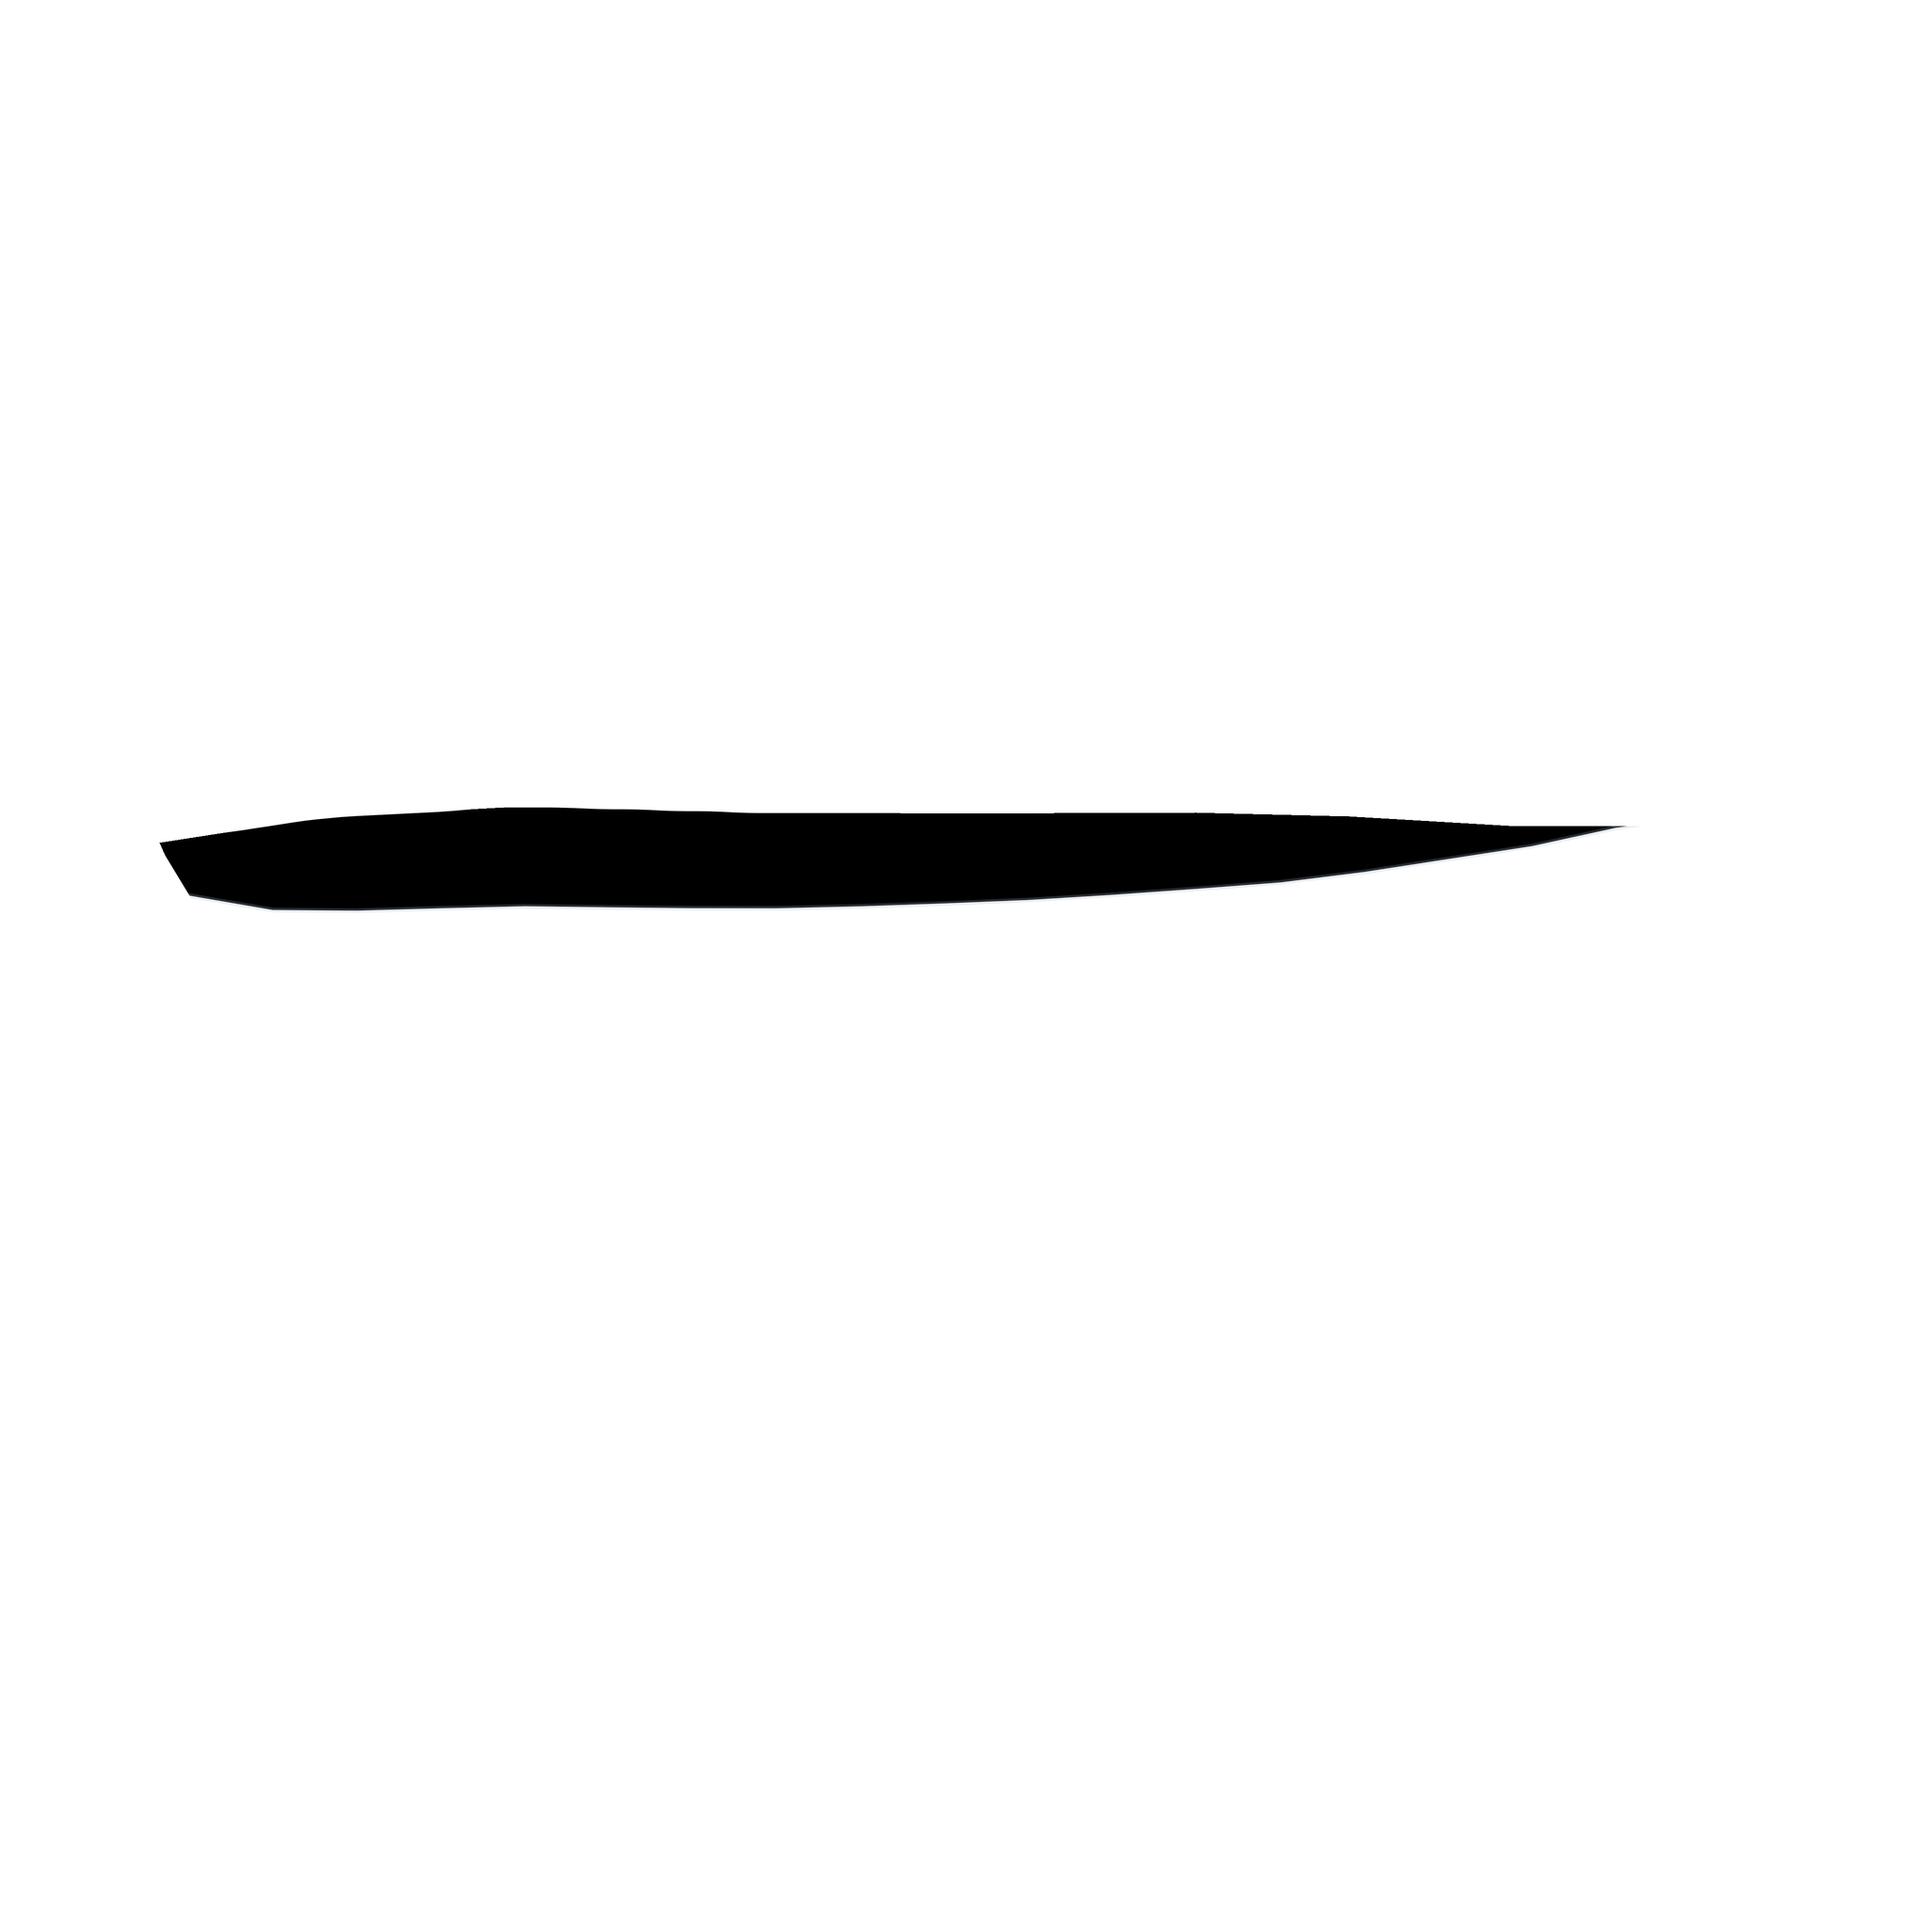
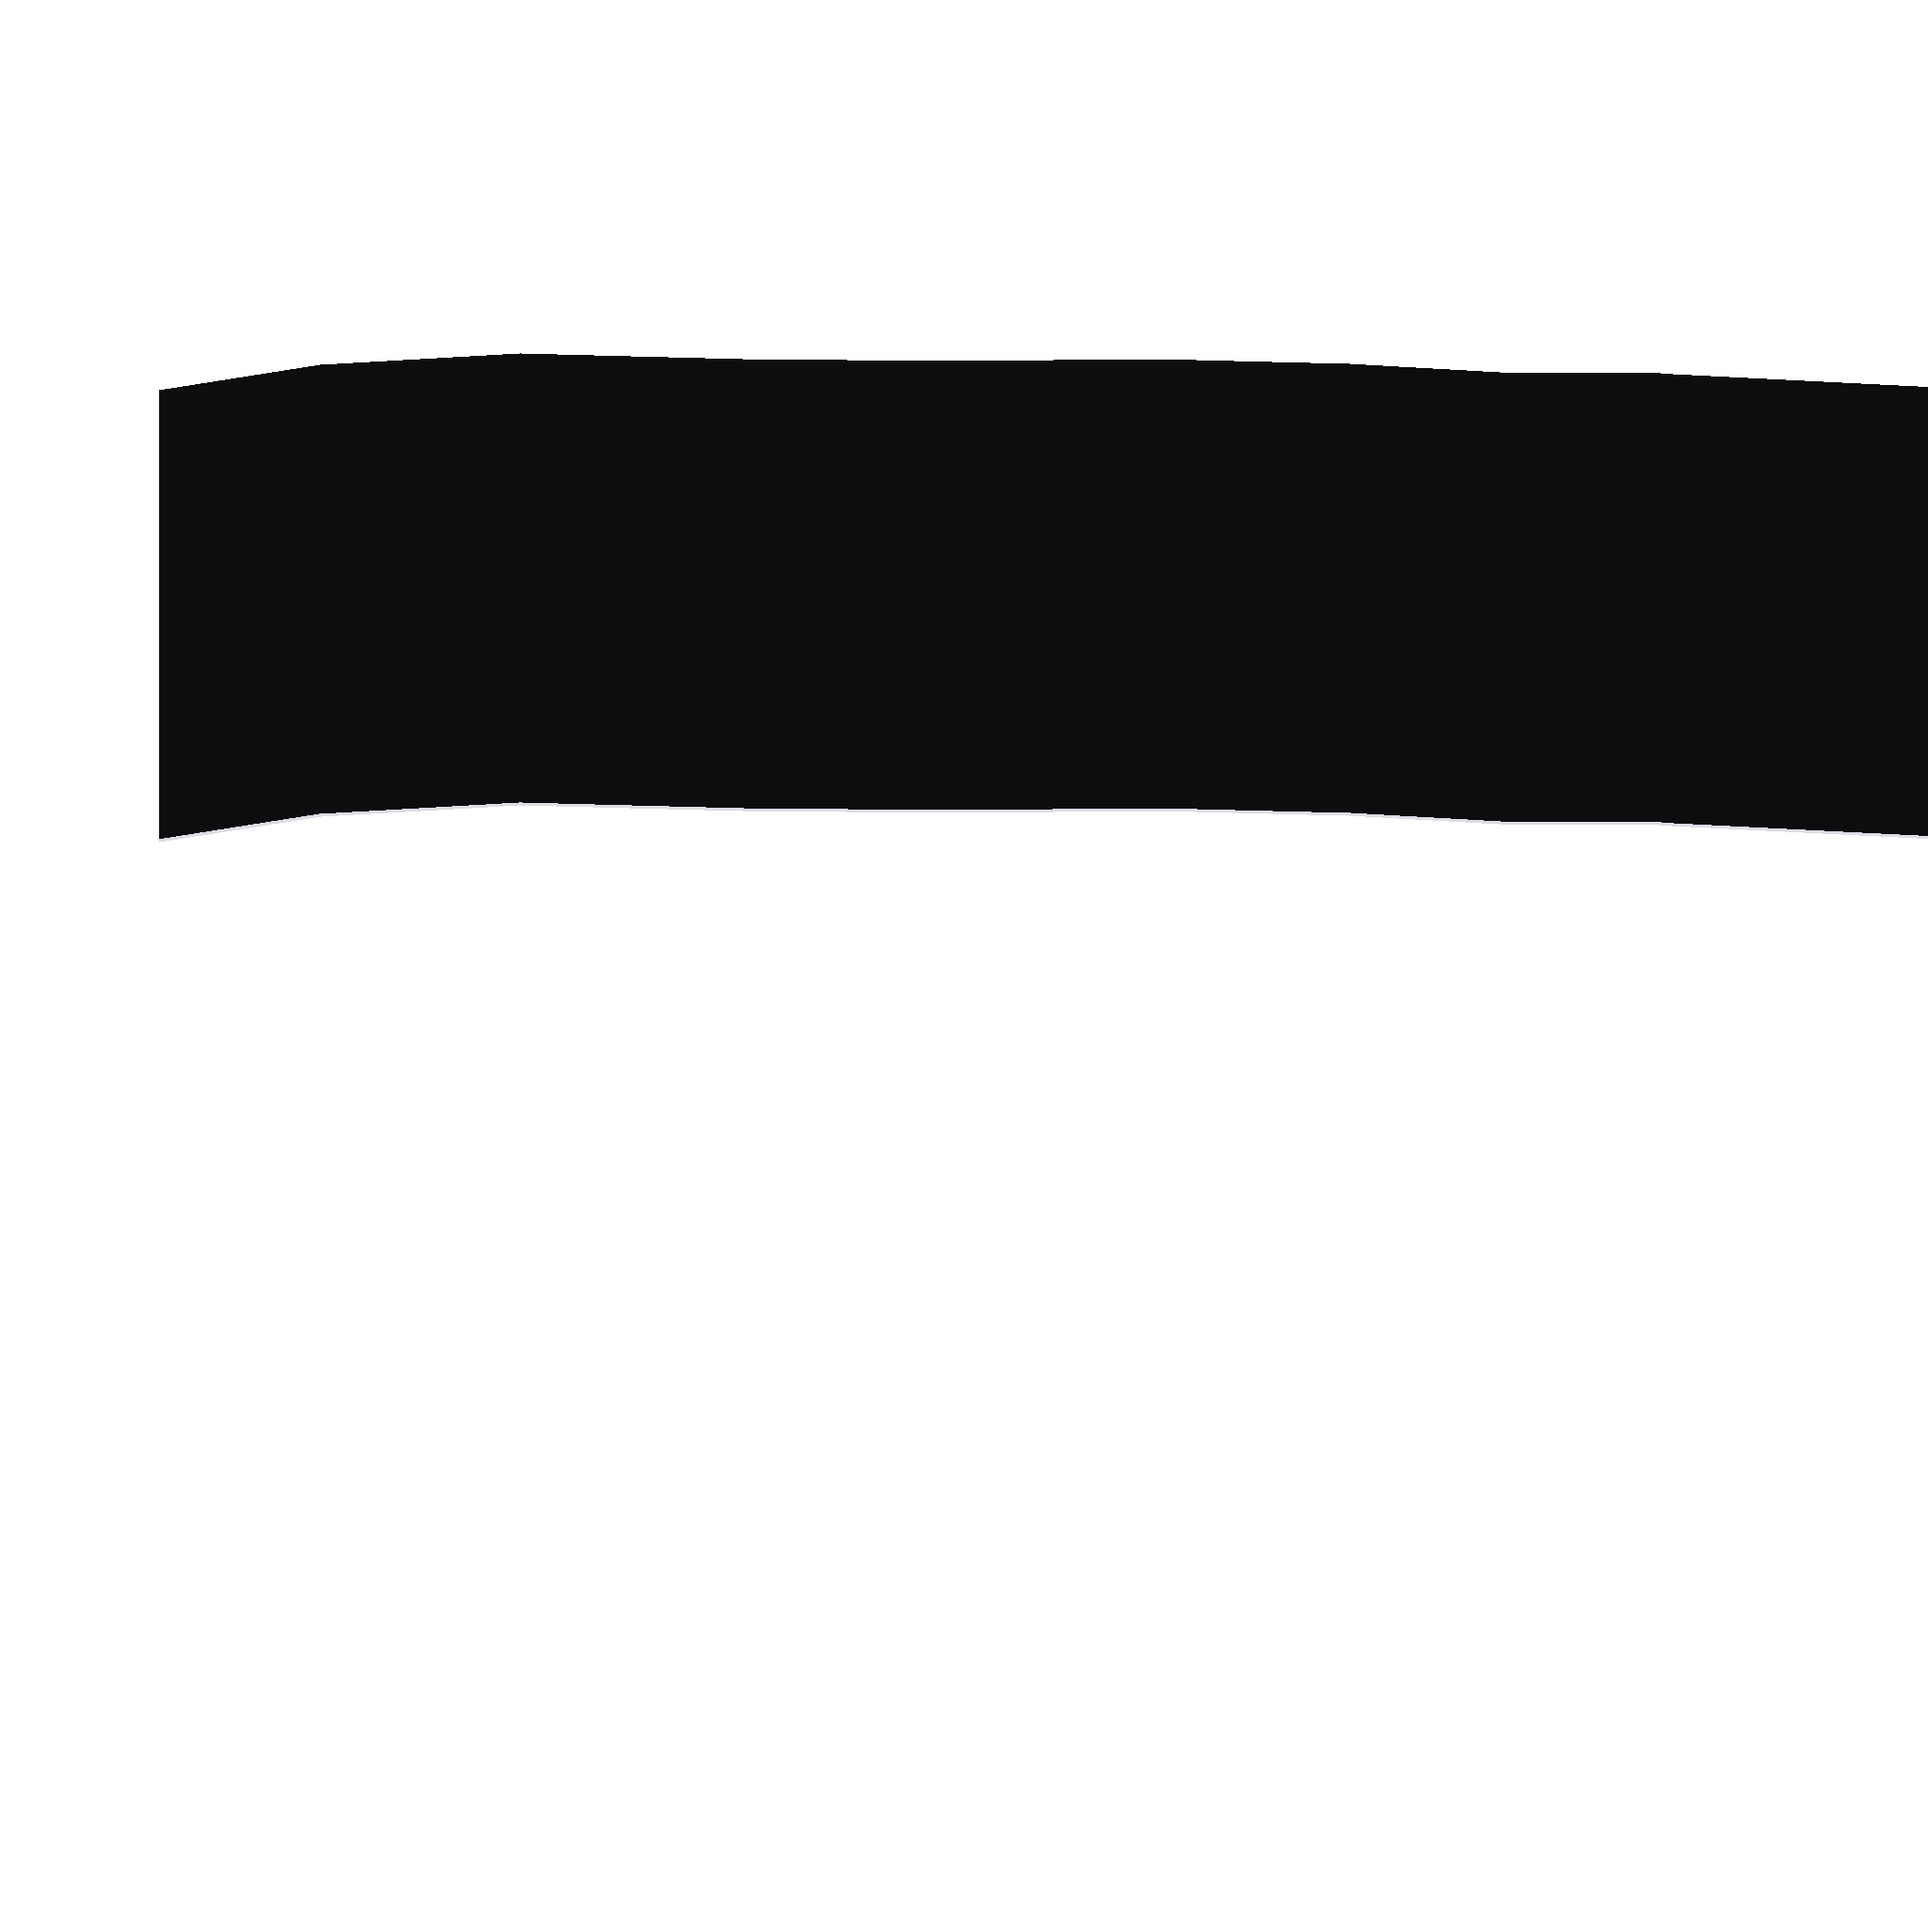
designer: L/R panel toggle, black back face, guide baked to 3D, fixed lid samples

Changed region(s): [[0.0625, 0.1562, 1.0, 0.5]]

diff --git a/designer.html b/designer.html
@@ -5,7 +5,7 @@
 <meta name="robots" content="noindex, nofollow, noarchive">
 
 <meta name="viewport" content="width=device-width,initial-scale=1">
-<title>目の確認ビューワー（片目）</title>
+<title>データ確認用ページ（片目）</title>
 <style>
   :root{ --bg:#15181d; --pane:#1b1f26; --line:#2b3138; --ink:#e8eaed; --dim:#98a2ad; --acc:#4da3ff; }
   *{ box-sizing:border-box }
@@ -46,13 +46,13 @@
 <body>
 <div id="app">
   <header>
-    <b>EYE VIEWER</b><small>片目（右）・LED パネル 3D ＋ UV 展開</small>
+    <b>データ確認用ページ</b><small>片目・LED パネル 3D ＋ UV 展開</small>
     <button id="pick">データを読み込む</button>
     <button id="useSample" class="on">サンプルに戻す</button>
     <input type="file" id="file" accept=".psd,.png,image/png" multiple style="display:none">
     <span style="flex:1"></span>
     <select id="emo"></select>
-    <button id="demo">自動デモ</button>
+    <button id="demo">グリーティング再生</button>
     <button id="side-t">設定</button>
   </header>
   <div id="main">
@@ -61,6 +61,8 @@
       <div id="view3d"></div>
       <div id="prog">パネルを読み込み中…</div>
       <div class="bar">
+        <button id="sideL" class="on">左目</button><button id="sideR">右目</button>
+        <span style="width:1px;height:20px;background:#3a4048"></span>
         <button data-c="front">正面</button><button data-c="angle">斜め</button><button data-c="side">横から</button>
         <button data-c="in">拡大 ＋</button><button data-c="out">縮小 −</button>
         <button data-c="left">◀ 回す</button><button data-c="right">回す ▶</button><button data-c="up">▲ 上から</button><button data-c="down">▼ 下から</button>
@@ -71,8 +73,8 @@
       <div class="ptitle">UV 展開（レンズ面）</div>
       <div id="uvWrap"><canvas id="uvCv"></canvas></div>
       <div class="bar">
-        <button id="uvFit" class="on">レンズに合わせる</button><button id="uvAll">全体</button>
-        <label><input type="checkbox" id="uvGuide" checked> ガイド</label>
+        <button id="uvFit" class="on">レンズ</button><button id="uvAll">UV 全体（正方形）</button>
+        <label><input type="checkbox" id="uvGuide" checked> ガイド（3D にも出す）</label>
         <label><input type="checkbox" id="uvChecker"> 背景の市松</label>
       </div>
     </div>
@@ -112,7 +114,7 @@ import { RoomEnvironment } from 'three/addons/environments/RoomEnvironment.js';
 
 const $ = (id) => document.getElementById(id);
 const ASSET = '.';                 // アセットの置き場所（ビルド時に差し替え）
-const MODEL = 'eye_panel.glb' + '?v=2';        // パネルの 3D（?v= はブラウザのキャッシュ対策）
+const MODEL = 'eye_panels.glb' + '?v=4';        // パネルの 3D（?v= はブラウザのキャッシュ対策）
 
 /* ============ UV の基準（テンプレートと同じ） ============ */
 const TEX = 2048;                                  // 合成テクスチャの大きさ
@@ -224,12 +226,13 @@ document.addEventListener('drop', (e) => { if (e.dataTransfer && e.dataTransfer.
 const EE = { emo: NAMES[0], ar: 0.5, gx: 0, gy: 0, conv: 0.4, ex: 1, ey: 1, demo: false, t: 0, blink: -1, nextBlink: 2 };
 function frame(dt){
   if (EE.demo){
+    // グリーティング: 近づいてきた人を目で追う（ようこそ）
     EE.t += dt;
-    const k = Math.floor(EE.t / 3.2) % NAMES.length;
-    if (NAMES[k] !== EE.emo){ EE.emo = NAMES[k]; syncEmo(); }
-    EE.gx = Math.sin(EE.t * 0.7) * 0.7 + Math.sin(EE.t * 1.9) * 0.2;
-    EE.gy = Math.sin(EE.t * 0.53) * 0.35;
-    EE.ar = 0.5 + Math.sin(EE.t * 0.31) * 0.35;
+    if (EE.emo !== 'ようこそ'){ EE.emo = 'ようこそ'; syncEmo(); }
+    const w = EE.t * 0.45;
+    EE.gx = Math.sin(w) * 0.75 + Math.sin(w * 2.7) * 0.08;      // ゆっくり左右に追う
+    EE.gy = Math.sin(w * 0.6 + 1.1) * 0.22;
+    EE.ar = 0.62 + Math.sin(EE.t * 0.5) * 0.12;
   }
   EE.nextBlink -= dt;
   if (EE.nextBlink <= 0){ EE.blink = 0; EE.nextBlink = 2.5 + Math.random() * 4; }
@@ -301,6 +304,9 @@ function drawTex(P, now){
   }
   slide('L7', -lowRaise * BANDH * TEX, 0);
   slide('L6', closure * BANDH * TEX, (P.lid.upper.tilt || 0) * 0.06);
+
+  // ガイド（レンズの縁・塗り足し・セーフエリア・虹彩の基準）。3D にもそのまま乗る
+  if (guideImg && $('uvGuide').checked) tg.drawImage(guideImg, 0, 0, TEX, TEX);
 }
 
 /* ============ UV パネル ============ */
@@ -312,10 +318,10 @@ function layoutUV(){
   let s, ox, oy;
   if (uvMode === 'fit'){
     const bw = (BAND.u1 - BAND.u0) * TEX, bh = (BAND.v1 - BAND.v0) * TEX;
-    s = Math.min(w / bw, h / bh) * 0.94;
+    s = Math.min(w / bw, h / bh) * 0.84;   // 目尻の先まで見えるように余白を取る
     ox = (w - bw * s) / 2 - BAND.u0 * TEX * s; oy = (h - bh * s) / 2 - BAND.v0 * TEX * s;
   } else {
-    s = Math.min(w, h) / TEX * 0.96; ox = (w - TEX * s) / 2; oy = (h - TEX * s) / 2;
+    s = Math.min(w, h) / TEX * 0.90; ox = (w - TEX * s) / 2; oy = (h - TEX * s) / 2;
   }
   uv.style.transform = `translate(${ox}px, ${oy}px) scale(${s})`;
 }
@@ -329,7 +335,9 @@ function drawUV(){
   uvCtx.clearRect(0, 0, TEX, TEX);
   if ($('uvChecker').checked){ const p = uvCtx.createPattern(checker, 'repeat'); uvCtx.fillStyle = p; uvCtx.fillRect(0, 0, TEX, TEX); }
   uvCtx.drawImage(texCv, 0, 0);
-  if ($('uvGuide').checked && guideImg) uvCtx.drawImage(guideImg, 0, 0, TEX, TEX);
+  if (uvMode === 'all'){   // UV 全体のときは正方形の外枠を描いて範囲が分かるようにする
+    uvCtx.strokeStyle = 'rgba(120,170,255,.55)'; uvCtx.lineWidth = 6; uvCtx.strokeRect(3, 3, TEX - 6, TEX - 6);
+  }
 }
 
 /* ============ 3D（ヘッドライトに貼る LED パネルだけ） ============ */
@@ -347,24 +355,44 @@ function resize3d(){ const w = view.clientWidth, h = view.clientHeight; if (!w |
 
 const tex = new THREE.CanvasTexture(texCv); tex.flipY = false; tex.colorSpace = THREE.SRGBColorSpace;
 let panel = null, expo = 1.0;
-// パネルの中心・正対方向・見かけの半径（eye_panel.glb から算出した固定値。投影面積が最大になる向き＝いちばんよく見える角度）
-const PC = new THREE.Vector3(0.3839, 0.7760, -0.6292);
-const PN = new THREE.Vector3(-0.5889, 0.1772, -0.7885).normalize();
-let PR = 0.3099;
+const panels = {}, backs = {};   // 表（テクスチャ）と裏（黒）
+// パネルの中心・正対方向・見かけの半径（panel_framing.mjs で算出した固定値。投影面積が最大になる向き＝いちばんよく見える角度）
+const FRAME = {
+  R: { c: [0.3839, 0.7760, -0.6292], d: [-0.5889, 0.1772, -0.7885], r: 0.3099 },
+  L: { c: [0.3840, 0.7762,  0.6292], d: [-0.6089, 0.1743,  0.7738], r: 0.3079 },
+};
+let SIDE = 'L';                       // 既定は左目（UV 展開と並べて見るため）
+const PC = new THREE.Vector3(), PN = new THREE.Vector3();
+let PR = 0.31;
+function useSide(k){
+  SIDE = k; const f = FRAME[k];
+  PC.fromArray(f.c); PN.fromArray(f.d).normalize(); PR = f.r;
+  if (panels.R) panels.R.visible = (k === 'R');
+  if (panels.L) panels.L.visible = (k === 'L');
+  if (backs.R) backs.R.visible = (k === 'R');
+  if (backs.L) backs.L.visible = (k === 'L');
+  $('sideL').classList.toggle('on', k === 'L'); $('sideR').classList.toggle('on', k === 'R');
+  if (panels[k]){ panel = panels[k]; faceFront(); }
+}
 
 function loadModel(name){
   const loader = new GLTFLoader();
   loader.load(name, (gltf) => {
-    let mesh = null;
-    gltf.scene.traverse((o) => { if (o.isMesh && !mesh) mesh = o; });
-    if (!mesh){ $('prog').textContent = 'パネルのメッシュが見つかりません'; return; }
-    panel = mesh; scene.add(gltf.scene);
-    const mt = new THREE.MeshStandardMaterial({ map: tex, emissiveMap: tex, emissive: new THREE.Color(0xffffff), emissiveIntensity: 0.85, roughness: 0.5, metalness: 0.0, side: THREE.DoubleSide });
-    mesh.material = mt;
-    mesh.updateWorldMatrix(true, false);
+    scene.add(gltf.scene);
+    const mt = new THREE.MeshStandardMaterial({ map: tex, emissiveMap: tex, emissive: new THREE.Color(0xffffff), emissiveIntensity: 0.85, roughness: 0.5, metalness: 0.0, side: THREE.FrontSide });
+    gltf.scene.traverse((o) => {
+      if (!o.isMesh) return;
+      const k = /_L$/.test(o.name) ? 'L' : 'R';
+      o.material = mt; panels[k] = o; o.updateWorldMatrix(true, false);
+      // 裏側は黒（パネルの裏を見たときに絵が透けないように）
+      const back = new THREE.Mesh(o.geometry, new THREE.MeshBasicMaterial({ color: 0x0a0c0f, side: THREE.BackSide }));
+      back.applyMatrix4(o.matrixWorld); scene.add(back); backs[k] = back;
+    });
+    if (!panels.R && !panels.L){ $('prog').textContent = 'パネルのメッシュが見つかりません'; return; }
+    panel = panels.L || panels.R;
     $('prog').style.display = 'none';
-    window.__dv = { camera, controls, scene, panel: mesh, PC, PN, PR };
-    faceFront();
+    window.__dv = { camera, controls, scene, panels, backs, get panel(){ return panels[SIDE]; }, PC, PN, PR };
+    useSide('L');
   }, (ev) => { if (ev.total) $('prog').textContent = 'パネルを読み込み中… ' + Math.round(ev.loaded / ev.total * 100) + '%'; },
      (e) => { $('prog').textContent = '読み込めませんでした: ' + (e && e.message || e); });
 }
@@ -405,6 +433,8 @@ fillEmo($('emo')); fillEmo($('emo2'));
 function syncEmo(){ $('emo').value = EE.emo; $('emo2').value = EE.emo; }
 [$('emo'), $('emo2')].forEach((s) => s.addEventListener('change', () => { EE.emo = s.value; EE.demo = false; $('demo').classList.remove('on'); syncEmo(); }));
 $('demo').addEventListener('click', function(){ EE.demo = !EE.demo; this.classList.toggle('on', EE.demo); });
+$('sideL').addEventListener('click', () => useSide('L'));
+$('sideR').addEventListener('click', () => useSide('R'));
 $('side-t').addEventListener('click', function(){ const s = $('side'); const open = s.style.display === 'none'; s.style.display = open ? 'block' : 'none'; this.classList.toggle('on', open); $('main').classList.toggle('side', open); setTimeout(() => { layoutUV(); resize3d(); }, 180); });
 [['ar', 'ar'], ['gx', 'gx'], ['gy', 'gy'], ['conv', 'conv'], ['ex', 'ex'], ['ey', 'ey']].forEach(([id, k]) => {
   $(id).addEventListener('input', function(){ EE[k] = +this.value; if (k === 'gx' || k === 'gy' || k === 'ar') EE.demo = false, $('demo').classList.remove('on'); $('v_' + id).textContent = (+this.value).toFixed(2); });
